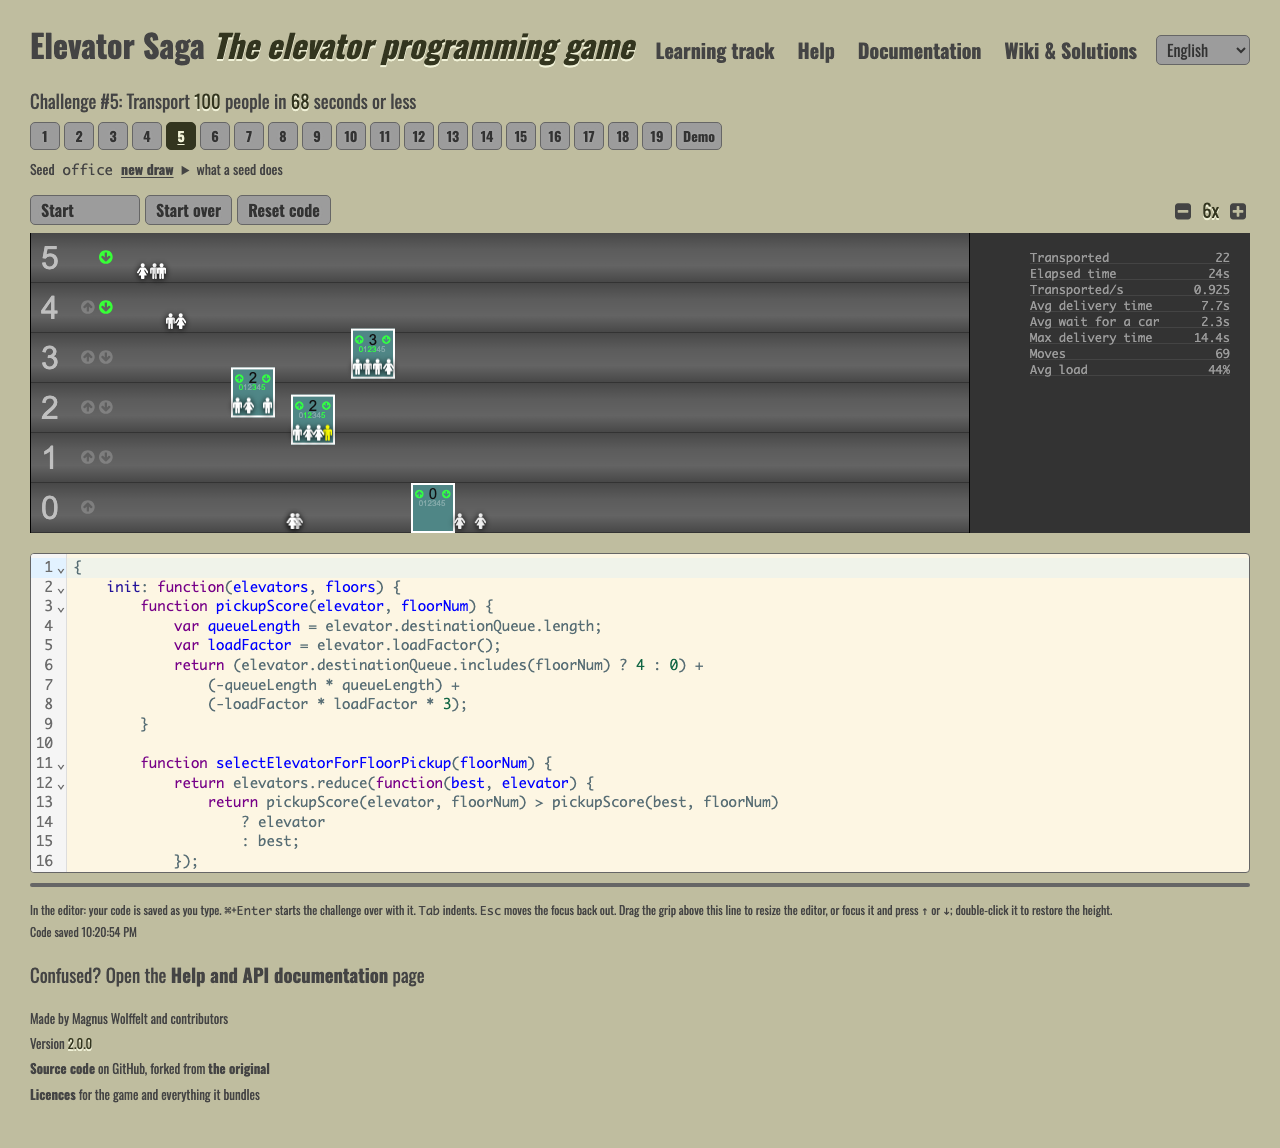
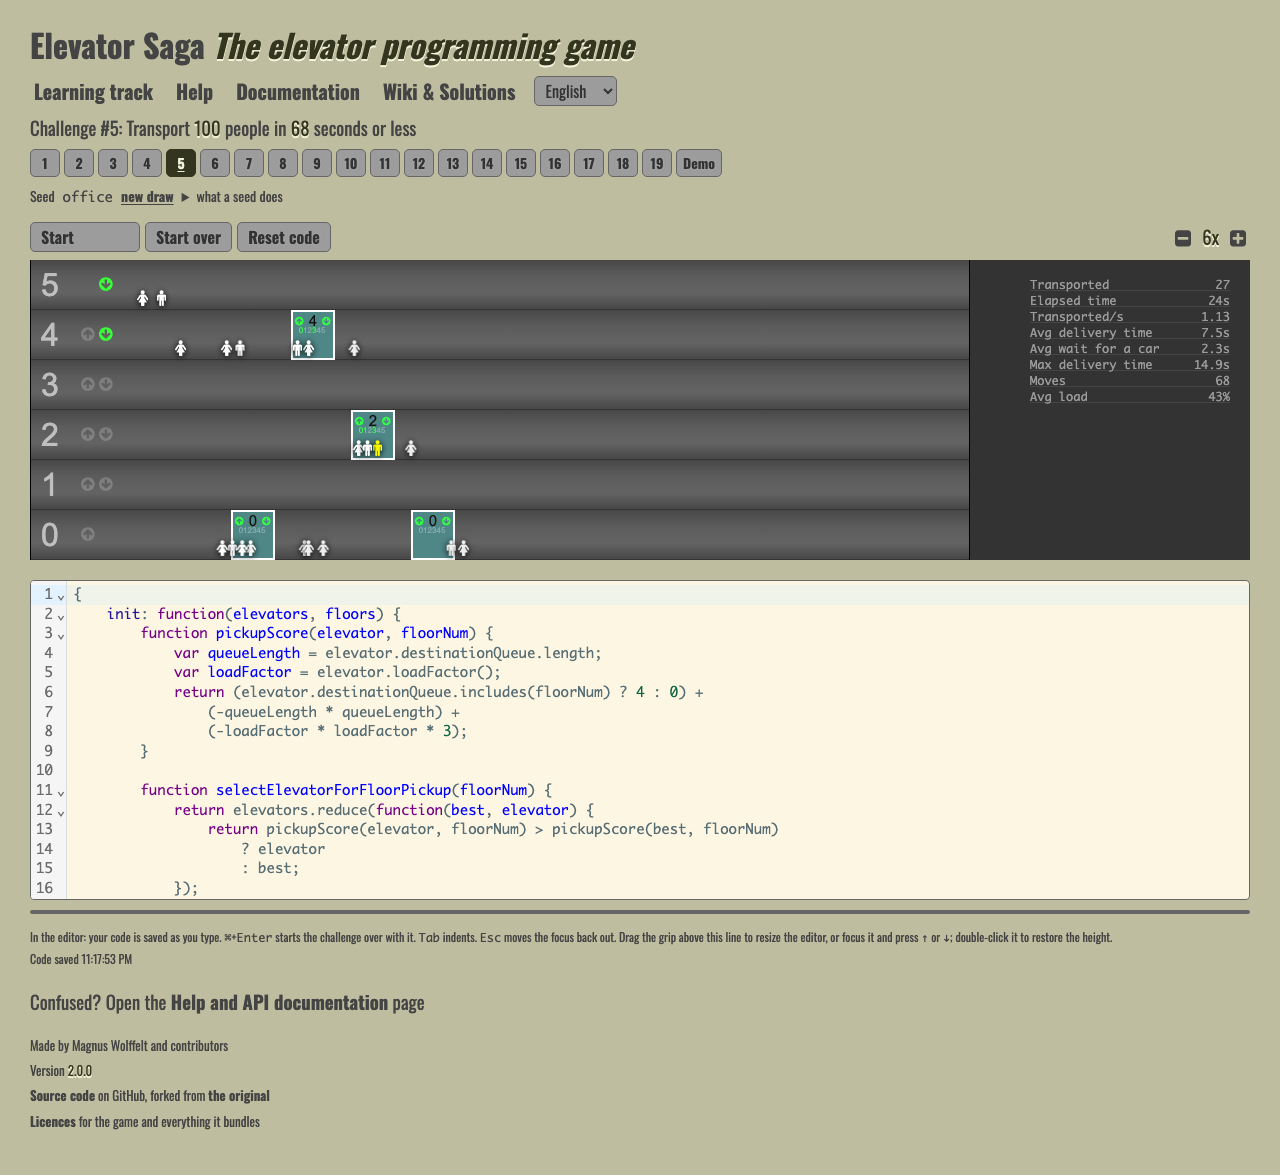
Stop the header's shape depending on the language
The title and the header tools sat at opposite ends of one wrapping row, so
whether they shared it was decided by how wide the words happened to be. They
come to 1190.9px in English and 1326.4px in Russian against a 1220px shell:
English got a 60px header at a desk, Russian a 115px one, and choosing a
language from the picker dropped the whole page 55px with nothing else about
the screen changed. Swept at every width from 320px to 1440px, the two
languages disagreed at 430 of the 1121 -- the widest screen included.

Stack them instead. Two rows because there are two children, in every language
and at every width, and the row of tools comes down to the 32px line box it
already used on a phone. The remaining disagreement is 215 widths, none above
674px, and below that the words are simply longer and need more lines.

English pays 27px of header at a desk and Russian gets 28px back. The picker
moves from the far right of the title's row to the end of the tools row, which
is where it already was on anything narrower than a laptop.

The e2e guard measures the header in both languages at five widths, switching
with the control rather than loading a Russian URL, because the page a player
watches jump is the one they changed under themselves. The README screenshot
is recaptured: it is a full-page capture, so it had the old header in it.

Changed region(s): [[0.0, 0.0305, 1.0, 0.9756], [0.5625, 0.6707, 0.5938, 0.7317]]

diff --git a/src/styles/style.css b/src/styles/style.css
@@ -353,13 +353,35 @@ dl dd {
   --shell-width: 960px;
 }
 
+/*
+ * The title, and under it the row of tools.
+ *
+ * A column rather than the two at opposite ends of one wrapping row, because
+ * side by side they shared a line only while both fitted -- and how much they
+ * measure is a fact about the language being read. The title and the tools come
+ * to 1190.9px in English and 1326.4px in Russian, against the 1220px the shell
+ * is ever willing to give them, so at a desk English got a 60px header and
+ * Russian a 115px one. Switching language dropped the whole page 55px, on the
+ * same screen, with nothing else about it changed.
+ *
+ * Stacked, no measurement decides anything: there are two rows because there are
+ * two children, in every language and at every width. Swept in Chromium at every
+ * width from 320px to 1440px, English and Russian used to disagree at 430 of the
+ * 1121 -- the widest screen included -- and now disagree at 215, none of them
+ * above 674px. Below that the words are simply longer and need more lines, which
+ * is not something a stylesheet gets to fix.
+ *
+ * The trade is 87px of header at a desk where English had 60; Russian gets 28px
+ * back. What does not change is the one place the height still grows as the
+ * window widens: at 761px the title comes off the phone-sized rule at the foot
+ * of this file and takes the header from 70.27px to 87px. That reversal is a
+ * breakpoint doing what it was asked to, and it now happens at the same width
+ * and by the same amount in both languages, which is the part that was wrong.
+ */
 .header {
   display: flex;
-  flex-wrap: wrap;
-  align-items: baseline;
-  justify-content: space-between;
-  gap: 15px;
-  min-block-size: 60px;
+  flex-direction: column;
+  gap: 5px;
 }
 
 .header h1 {
@@ -379,11 +401,11 @@ dl dd {
  * game page in Russian. English fits either way, which is why the page that
  * ships in English never showed it.
  *
- * Bisected with the line in place: the three links take two rows from 320px up
- * to 458px and a single row from 459px, and the document overflows at neither
- * 320px nor 390px. `e2e/reflow.spec.ts` measures the Russian game page now, so
- * this cannot come back the way it arrived — by being true only of a language
- * nobody tested.
+ * Swept with the line in place: the three links take two rows up to 367px in
+ * English and up to 404px in Russian, one row above that, and the document
+ * overflows at no width from 320px to 1440px in either language.
+ * `e2e/reflow.spec.ts` measures the Russian game page now, so this cannot come
+ * back the way it arrived — by being true only of a language nobody tested.
  */
 .header nav {
   display: flex;
@@ -402,33 +424,29 @@ dl dd {
 .header .tutoriallink {
   padding-inline: 4px;
   font-size: 20px;
-  line-height: 50px;
+  line-height: 32px;
 }
 
 /*
- * The right-hand end of the header: the help links and the language picker.
+ * The header's second row: the way into the learning track, the help links and
+ * the language picker.
  *
- * A wrapper rather than a third child of `.header`, because that row is laid
- * out with `justify-content: space-between` -- which puts the first child at one
- * end, the last at the other and everything else evenly between them, so a bare
- * `<select>` would have taken the title's right-hand neighbour's place and left
- * the links stranded in the middle of the row.
+ * A wrapper rather than three more children of `.header`, which is what makes
+ * the header two rows rather than four. The rule above stacks whatever it is
+ * given, so the grouping is the layout here, not a hint about it.
  *
- * `center` rather than the `baseline` the header itself uses: the links carry a
- * 50px line box and the picker is a 30px control, so aligning their baselines
- * hangs the picker off the bottom of the row. Centring costs nothing at the
- * header's own alignment, which reads the wrapper's first item -- the links --
- * exactly as it read them when they were the child.
+ * `center`, because the links carry a 32px line box and the picker is a 30px
+ * control: left to the baseline they would agree on, the picker hangs off the
+ * bottom of the row by the difference between a link's descender and a
+ * `<select>`'s.
  *
  * `wrap`, because the picker has to be allowed to fall under the links rather
- * than push the page wider than the screen. Bisected in Chromium: the two share
- * a row down to 477px and the picker takes a row of its own at 476px and below,
- * where the links alone are already 347px against a 456px content box. The
- * header measured 60px at 1280, 80.3px at 760 and 113.5px at 500 both before
- * this control existed and after, and 158.5px at 420 and 190.5px at 360 and 320
- * against 113.5px and 145.5px before -- the 45px being the control plus the row
- * gap. Nothing overflows sideways at any width from 320px up, which is the part
- * that would have been a defect rather than a cost.
+ * than push the page wider than the screen. Swept in Chromium: the four sit on
+ * one row down to 675px in Russian and 608px in English, and nothing overflows
+ * sideways at any width from 320px up, which is the part that would have been a
+ * defect rather than a cost. Those two thresholds are the same as they were when
+ * this wrapper stood at the end of a row shared with the title -- once the tools
+ * wrap, they get the whole width either way.
  *
  * A phone paying a row for it is the trade this takes. The alternative is
  * hiding the picker below some width, and the reader most likely to need a
@@ -1576,18 +1594,9 @@ pre code {
     --editor-height: 240px;
   }
 
-  .header {
-    min-block-size: 0;
-  }
-
   .header h1 {
     font-size: 1.6em;
     line-height: 1.3;
-  }
-
-  .header nav a,
-  .header .tutoriallink {
-    line-height: 1.6;
   }
 
   .help p,

diff --git a/e2e/language-picker.spec.ts b/e2e/language-picker.spec.ts
@@ -153,3 +153,50 @@ test("is one stop in the tab order, right after the links it sits beside", async
   // this control is the one who cannot read the language the page is in.
   await expect(page.getByLabel("Language").locator("option")).toHaveText(["English", "Русский"]);
 });
+
+/**
+ * Widths at which the header must come out the same height in either language.
+ *
+ * 1440 and 1280 are where it used to be worst: the title and the tools shared a
+ * row while English fitted and Russian did not, so the choice cost 55px of page.
+ * 1024 and 800 are where the two agreed even then, and are here so that a fix
+ * that only widened the desktop case would not pass. 675 is the boundary itself,
+ * measured — the narrowest width at which the two still agree.
+ *
+ * Below it they do not, and no assertion here pretends otherwise. Russian words
+ * are longer, and on a phone the row of links needs a line English does not; the
+ * stylesheet's note on `.header` has the sweep. What this pins is that the shape
+ * stops being decided by which language is on screen wherever there is room for
+ * it to be the same.
+ */
+const PARITY_WIDTHS = [1440, 1280, 1024, 800, 675] as const;
+
+test("keeps the header the same height in either language", async ({ page }) => {
+  const headerHeight = async (): Promise<number> =>
+    await page.evaluate(() => {
+      const header = document.querySelector(".header");
+      if (header === null) {
+        throw new Error("The page has no header to measure");
+      }
+      return Math.round(header.getBoundingClientRect().height * 100) / 100;
+    });
+
+  await page.goto("/#challenge=4");
+  await expect(page.getByRole("link", { name: "Wiki & Solutions" })).toBeVisible();
+  const english = new Map<number, number>();
+  for (const width of PARITY_WIDTHS) {
+    await page.setViewportSize({ width, height: 900 });
+    english.set(width, await headerHeight());
+  }
+
+  // Switched with the control rather than by loading a Russian URL, because the
+  // page a player sees change under them is the one that jumped.
+  await page.setViewportSize({ width: PARITY_WIDTHS[0], height: 900 });
+  await page.getByLabel("Language").selectOption("ru");
+  await expect(page.getByRole("link", { name: "Справка" })).toBeVisible();
+
+  for (const width of PARITY_WIDTHS) {
+    await page.setViewportSize({ width, height: 900 });
+    expect(await headerHeight(), `header height at ${String(width)}px`).toBe(english.get(width));
+  }
+});

diff --git a/e2e/tutorial.spec.ts b/e2e/tutorial.spec.ts
@@ -96,10 +96,10 @@ test("opens the track from the header link, in the language on screen", async ({
   await expect(link).toBeVisible();
 
   await page.setViewportSize({ width: 320, height: 800 });
-  // Where the 50px line height above is wrong: it is there to centre a link in
-  // a header bar that a phone does not have, and on two wrapped rows it is
-  // 100px of empty header before the game. The nav's links are let down to 1.6
-  // at this width and this one has to come with them.
+  // And on the same line box as the links it sits among, which is what stops
+  // three wrapped rows of header standing between a phone and the game. It used
+  // to be 50px here, a height that centres a link in a bar the header no longer
+  // is; the row has its own line now, so 32px is what every width gets.
   await expect(link).toBeVisible();
   await expect(link).toHaveCSS("line-height", "32px");
 
